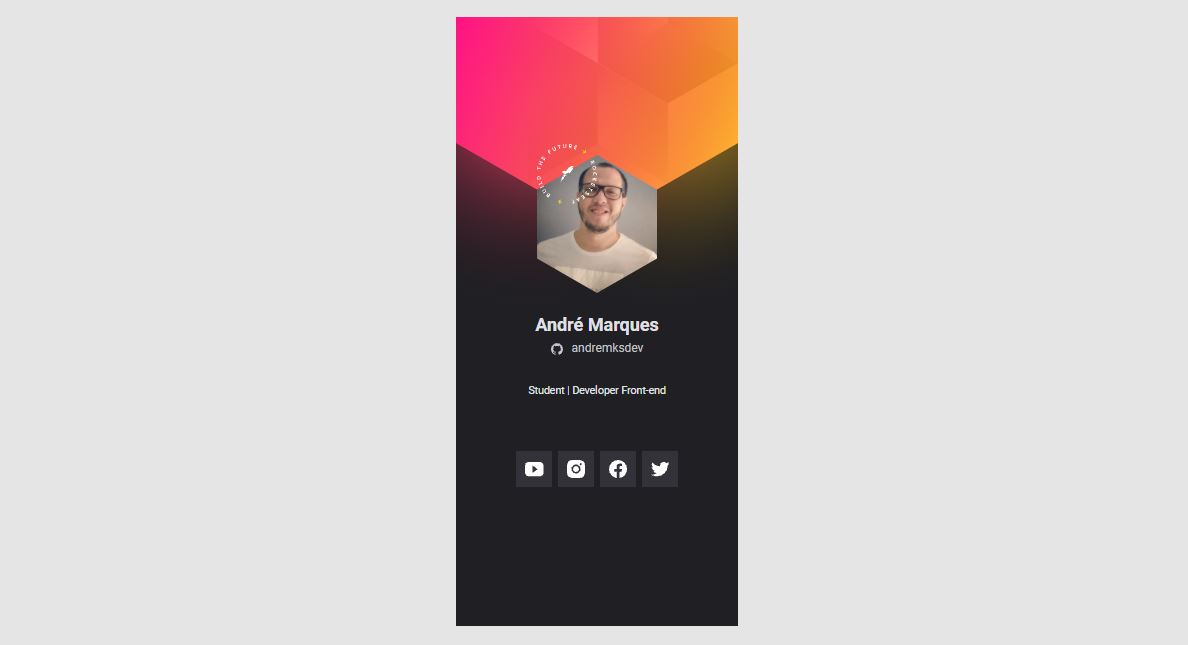
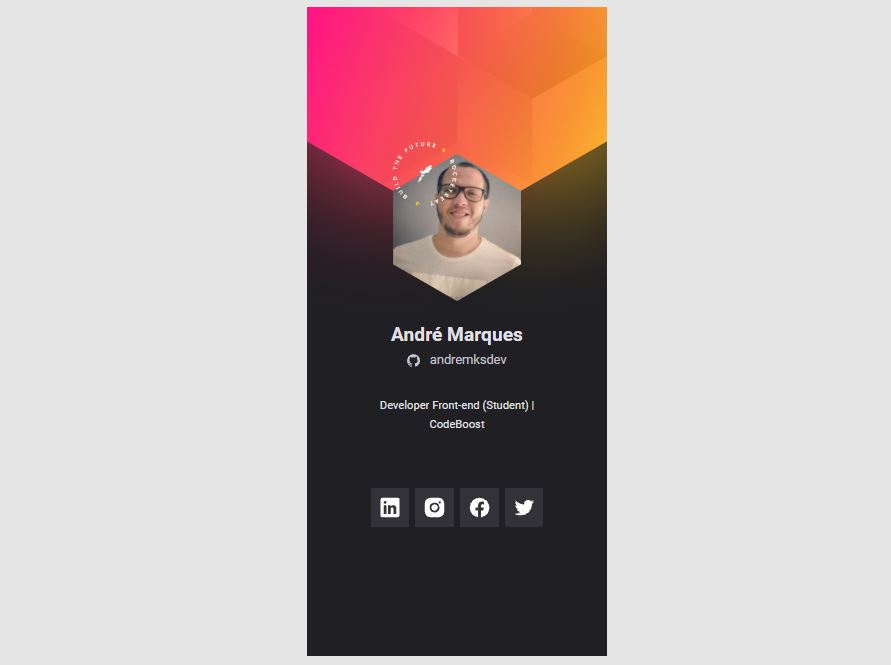
ajustes-linkedin

Changed region(s): [[0.3333, 0.0, 0.697, 0.9922], [0.4242, 0.7132, 0.5758, 0.8062], [0.4545, 0.4031, 0.4848, 0.4341]]

diff --git a/index.html b/index.html
@@ -27,9 +27,9 @@
       <a id="userLink" href="https://github.com/andremksdev" target="_blank"> <img src="images/github 2.svg" alt=""><span id="userLogin">andremksdev</span></a>
       <p id="userBio"></p>
       <ul id="socialLinks">
-        <li class="youtube">
-          <a href="https://youtube.com/andremksdev" target="_blank">
-            <img src="images/youtube.svg" alt="ícone youtube">
+        <li class="linkedin">
+          <a href="https://www.linkedin.com/in/andremksdev/" target="_blank">
+            <img src="images/linkedin.svg" alt="ícone linkedin">
           </a>
         </li>
         <li class="instagram">

diff --git a/main.js b/main.js
@@ -1,6 +1,6 @@
 const LinksSocialMedia = {
     github: 'andremksdev',
-    youtube: 'andremksdev',
+    linkedin: 'andremksdev',
     facebook: 'andremksdev',
     instagram: 'andremks.dev',
     twitter: 'andremksdev'
